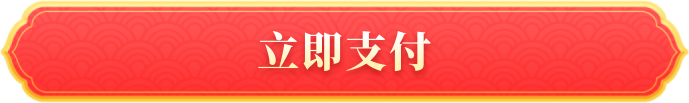
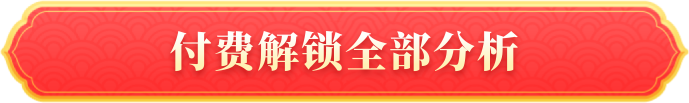
feat:支付按钮资源替换

Changed region(s): [[0.2438, 0.2913, 0.762, 0.7282]]

diff --git a/src/pages/emotion_fortune/detail/index.vue b/src/pages/emotion_fortune/detail/index.vue
@@ -103,8 +103,8 @@ import utils from '../../../libs/utils';
 import UserInfo from './user_info.vue';
 import { Solar, Lunar, LunarMonth } from 'lunar-javascript';
 import cn_pay_btn from '../../../assets/img/emotion/home_btn.png';
-import cn_home_btn from '../../../assets/img/emotion_v2/new/pay.png';
-import tw_home_btn from '../../../assets/img/emotion_v2/new/pay.png';
+import cn_home_btn from '../../../assets/img/emotion_v2/new/cn/pay.png';
+import tw_home_btn from '../../../assets/img/emotion_v2/new/tw/pay.png';
 import PayCard from '../../../components/PayCard.vue';
 import cn_card_1 from '../../../assets/img/emotion/home_card1.png';
 import tw_card_1 from '../../../assets/img/tw_mlxz/emotion/home_card1.png';

diff --git a/src/components/PayBtn.vue b/src/components/PayBtn.vue
@@ -11,8 +11,8 @@
 <script>
 import utils from '../libs/utils';
 //h5_emotion2024
-import cn_h5_emotion2024 from '../assets/img/emotion_v2/new/pay.png';
-import tw_h5_emotion2024 from '../assets/img/emotion_v2/new/pay.png';
+import cn_h5_emotion2024 from '../assets/img/emotion_v2/new/cn/pay.png';
+import tw_h5_emotion2024 from '../assets/img/emotion_v2/new/tw/pay.png';
 //h5_marriage
 import tw_h5_marriage from '../assets/img//bzhh_v2/tw/img_btn.png';
 import cn_h5_marriage from '../assets/img/bzhh_v2/cn/img_btn.png';

diff --git a/src/pages/emotion_fortune/home/index.vue b/src/pages/emotion_fortune/home/index.vue
@@ -237,7 +237,7 @@ import {
 } from '../../../libs/enum';
 
 import cn_home_btn from '../../../assets/img/emotion_v2/new/cn/btn.png';
-import tw_home_btn from '../../../assets/img/emotion_v2/new/cn/btn.png';
+import tw_home_btn from '../../../assets/img/emotion_v2/new/tw/btn.png';
 
 import combinePayPop from '../../../components/combinePayPop.vue';
 import { Downloader, Parser, Player } from 'svga.lite';
